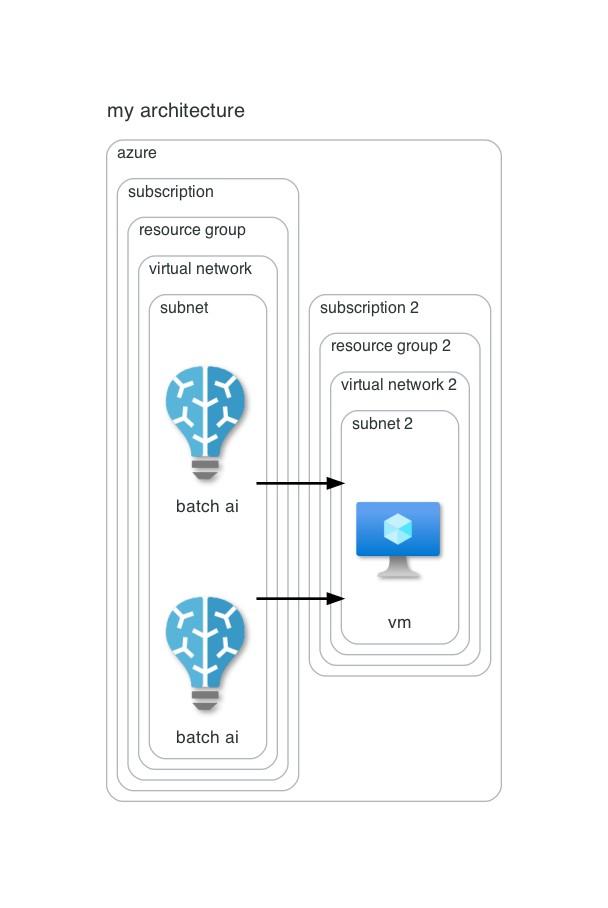
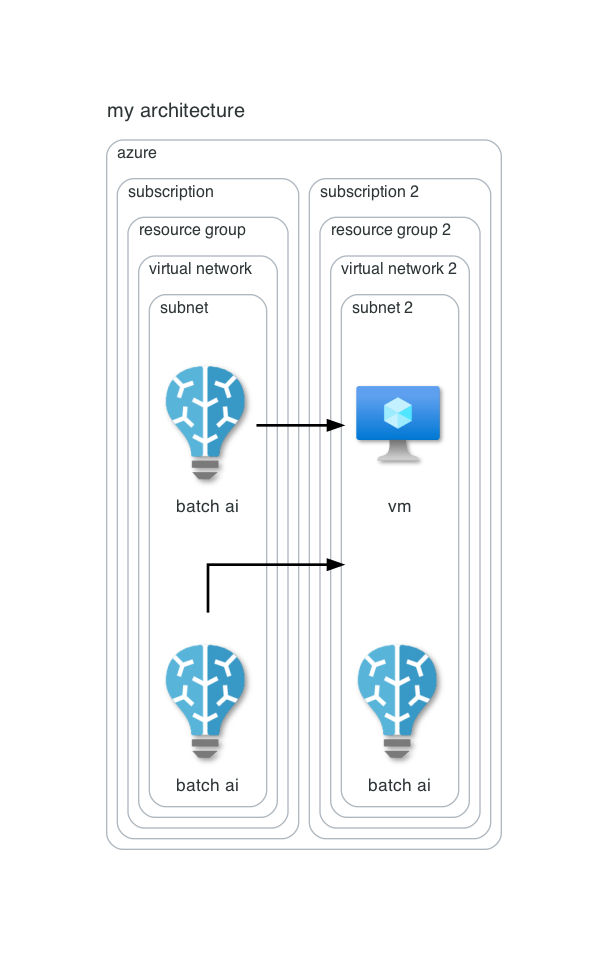
minor settings changes and updates to test

Changed region(s): [[0.1875, 0.0925, 0.8125, 0.8943], [0.4375, 0.6476, 0.5625, 0.6784], [0.4375, 0.5242, 0.5625, 0.5551]]

diff --git a/architectures/__init__.py b/architectures/__init__.py
@@ -299,7 +299,7 @@ class Setting():
             "compound": "true", 
             "pad": "1.0",
             "splines": "ortho",
-            "nodesep": "0.5",
+            "nodesep": "1.0",
             "ranksep": "1.0",
             "fontname": "Sans-Serif",
             "fontsize": "15",
@@ -321,7 +321,7 @@ class Setting():
         }
 
         self.node_attrs = {
-            "shape": "box",
+            "shape": "invis",
             "style": "rounded",
             "fixedsize": "true",
             "width": "1.0",

diff --git a/test.py b/test.py
@@ -27,6 +27,7 @@ with Graph("my architecture"):
                 with Cluster("virtual network 2"):
                     with Cluster("subnet 2") as sn2:
                         two = VirtualMachine('vm')
+                        BatchAI('batch ai')
 
 
     Edge(one, two, lhead=sn2.name)
